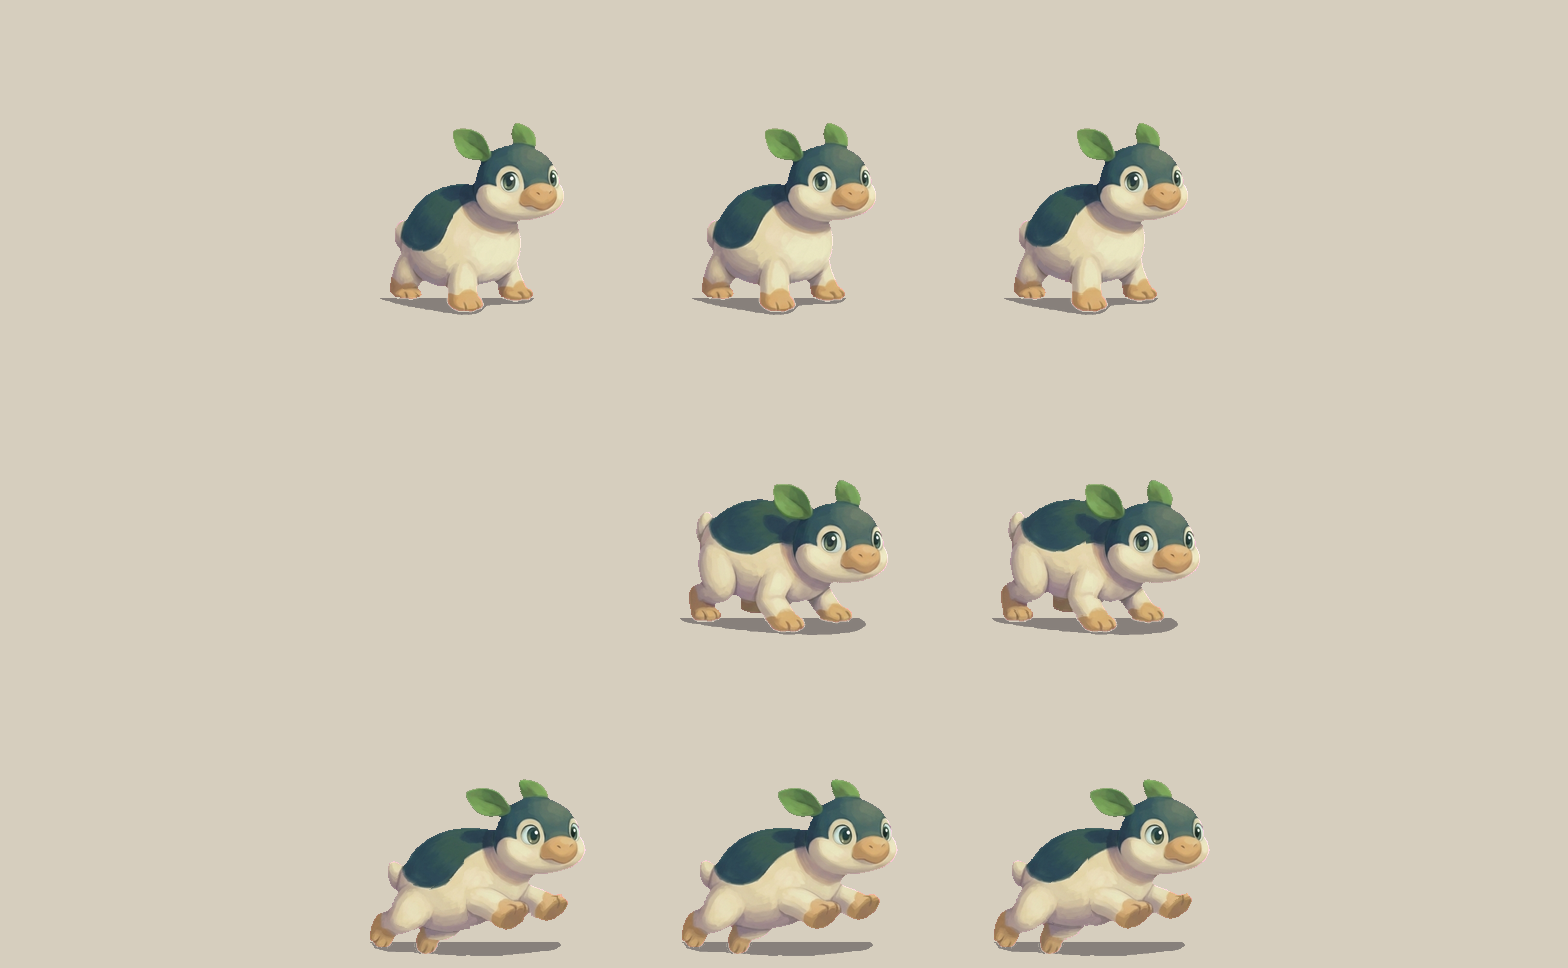
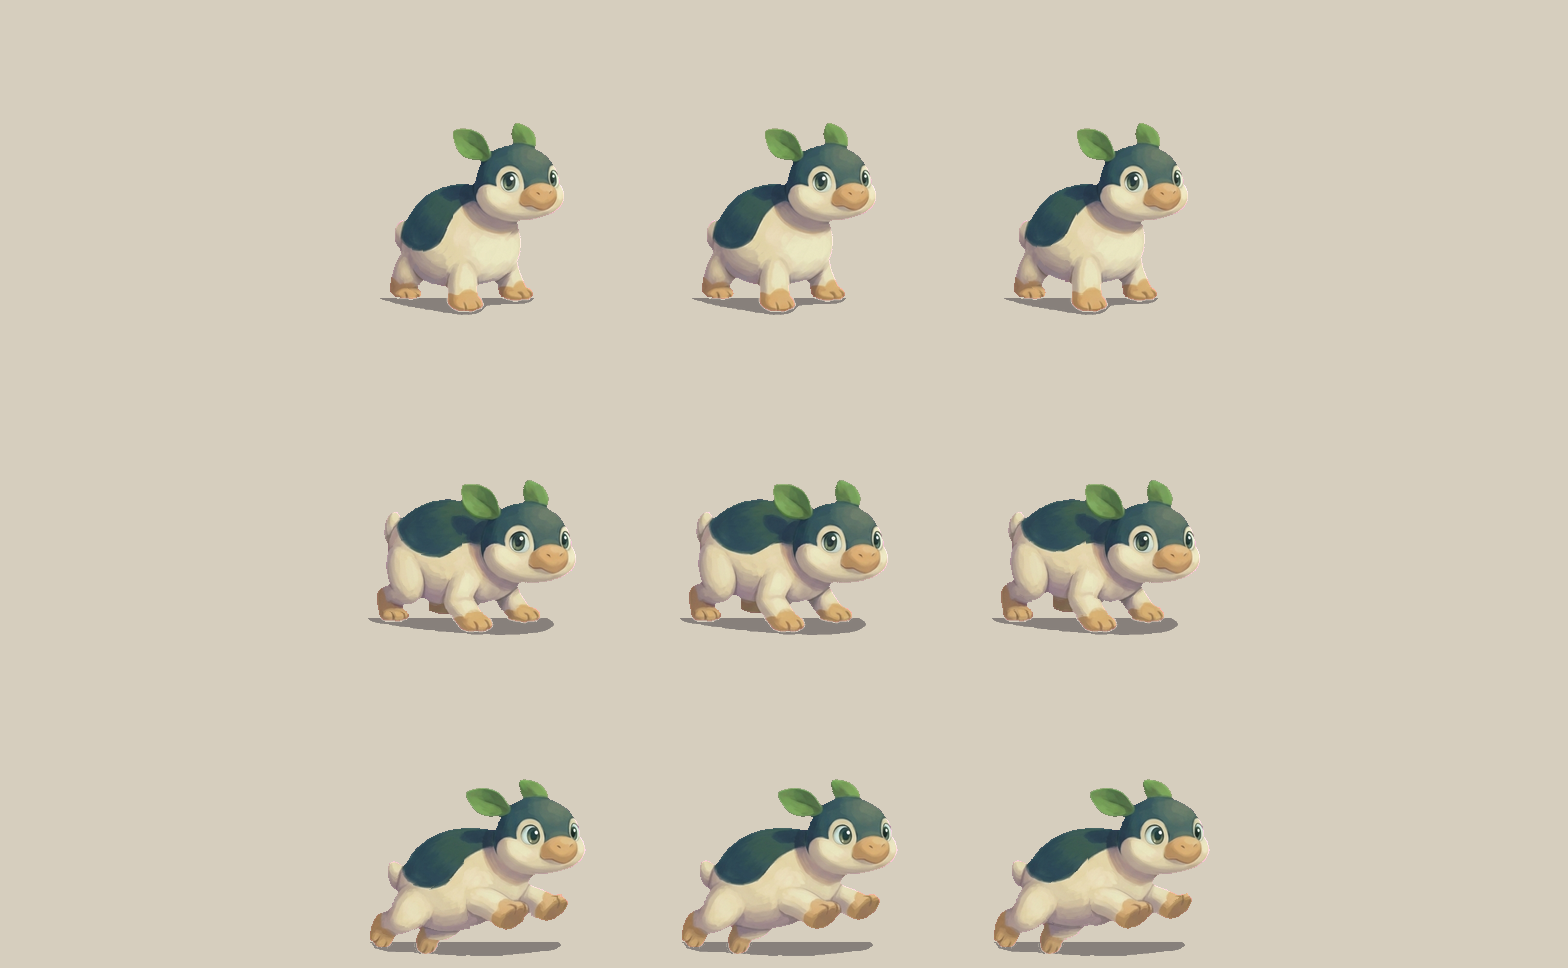
Tier 2 harness: feet-rows check, the S01 hop run on the belly lines

Changed region(s): [[0.2188, 0.4959, 0.375, 0.6818]]

diff --git a/prototypes/ui/README.md b/prototypes/ui/README.md
@@ -60,6 +60,6 @@ Also printed: clamp misses (should be 0), and the leg strain, the largest |db|/(
 
 The breath bake is the animator's `breathBake`: row copies per column, no resampling. yb(x) is the belly line; rows at and below it are fixed. b1: out(y) = in(y + 1) for y < yb − 1, row yb − 1 keeps itself. b2 adds a second lift for the rows above ym = round((ytop + yb) / 2), ytop the column's first ink row, ym at most yb − 8. Rows shifted in from above the figure are transparent.
 
-`tools/samples/phaseA/` holds the S05 cycle M8 (unlocked keys: counts kept, no verdict) and the S01 hop check (blocked on the belly lines) as CSVs and contact sheets.
+`tools/samples/phaseA/` holds the S05 cycle M8 (unlocked keys: counts kept, no verdict) and the S01 hop check (stand, crouch and air, both ends) as CSVs and contact sheets.
 
 `tools/samples/matrix/` holds the dry run on the signed S04 stand at 304x312, 104x112 and 96x88 with the animator's provisional topline landmarks (the landmarks file itself is not in this repository): the 1x PNGs (stand, warped down, warped up), the field maps, the head masks, the contact sheets, the breathing pairs as APNGs and `measures.csv`. The inputs are the signed cut keys in masters-pods (level, dipping, arched; body and shadow at each size); every file's SHA-256 is in the CSV. It is not a verdict: the landmarks are the animator's provisional ones.
